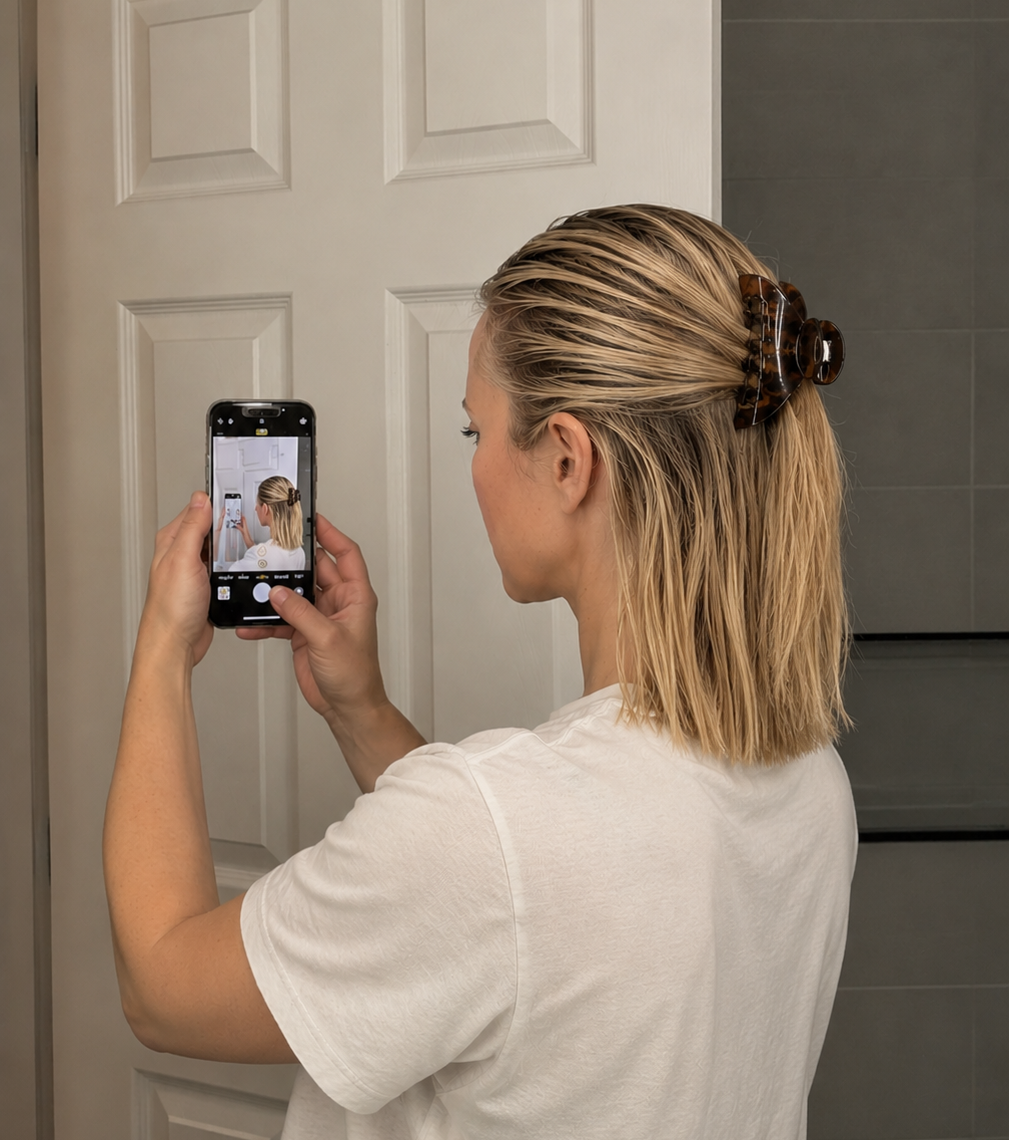
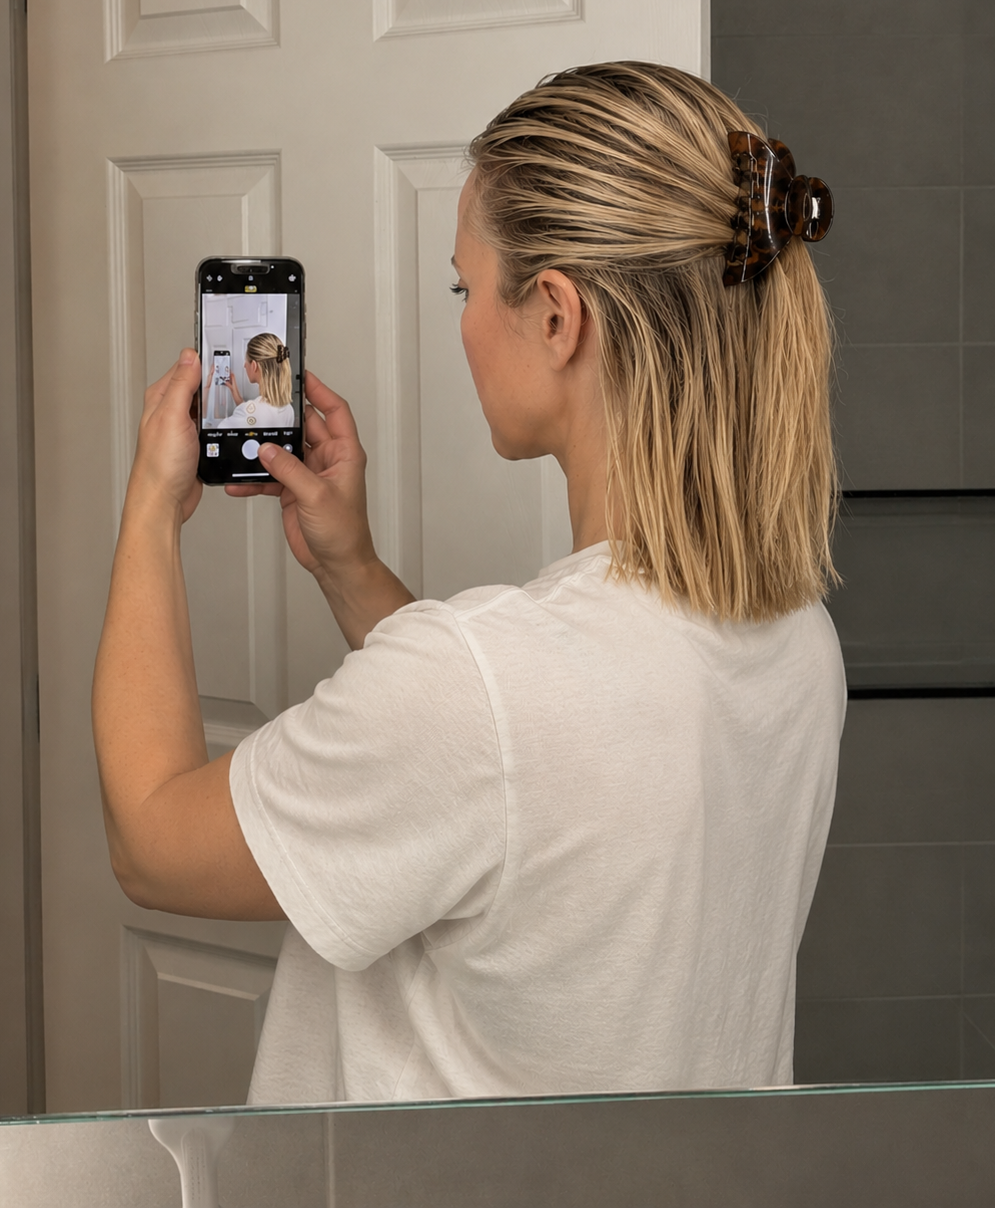
copy update

diff --git a/pages/best-hair-serums-postpartum-hair-loss.html b/pages/best-hair-serums-postpartum-hair-loss.html
@@ -77,7 +77,7 @@
       "name": "What ingredients should I double-check while breastfeeding?",
       "acceptedAnswer": {
         "@type": "Answer",
-        "text": "Medications like minoxidil, and some botanicals with limited breastfeeding research, such as ashwagandha and saw palmetto. When in doubt, bring the ingredient list to your doctor or lactation consultant."
+        "text": "Talk to your doctor before starting any of these, especially while pregnant or breastfeeding. Minoxidil is the one with a direct warning on the label."
       }
     },
     {
@@ -140,11 +140,13 @@ body{visibility:hidden;opacity:0;transition:opacity 0.3s ease;font-family:Georgi
 .chose-box li{margin-bottom:0.55rem;line-height:1.6;color:#222}
 
 .quick-look{margin:0 0 0.5rem;padding:0;list-style:none;counter-reset:look}
-.quick-look li{counter-increment:look;display:flex;gap:0.75rem;align-items:baseline;padding:0.7rem 0;border-bottom:1px solid #ece7e2;line-height:1.45}
+.quick-look li{counter-increment:look;display:flex;gap:0.75rem;align-items:center;padding:0.55rem 0;border-bottom:1px solid #ece7e2;line-height:1.35}
 .quick-look li:last-child{border-bottom:none}
 .quick-look li::before{content:counter(look);font-family:'Oswald',Buvera,sans-serif;font-weight:700;color:#c62828;min-width:1.1rem}
-.quick-look a{color:#111;font-weight:700;text-decoration:none}
+.quick-look a{display:flex;align-items:center;gap:0.75rem;flex:1;min-width:0;color:#111;font-weight:700;text-decoration:none}
+.quick-look a img{width:54px;height:54px;object-fit:contain;background:#fff;border:1px solid #ece7e2;flex:none}
 .quick-look a:hover{color:#aa1313}
+.quick-look a:hover img{border-color:#c62828}
 .quick-look .why{display:block;font-weight:400;color:#666;font-size:0.92rem;margin-top:0.1rem}
 
 .serum-card{border:1px solid #111;background:#fff;margin:2.25rem 0 0;scroll-margin-top:120px}
@@ -302,11 +304,12 @@ html.faq-moving{overflow-anchor:none}
       <p>At first, I thought it was normal. Everyone tells you postpartum hair loss happens, right? But then I started pulling actual clumps of hair out in the shower. Every time I brushed my hair, there was more.</p>
       <p>The worst part was my hairline. I had these little bald-looking patches around my temples, and my part was getting wider.</p>
       <p>I know it sounds dramatic, but I genuinely didn’t feel like myself anymore. I was already exhausted, barely sleeping, and trying to figure out how to be a mom. And now I didn’t even recognize myself in the mirror.</p>
-      <p>I started wearing my hair up constantly. I avoided pictures unless I was holding the baby in front of me.</p>
       <p>I tried switching shampoos, taking vitamins, and using different scalp oils. Nothing seemed to make a difference.</p>
-      <p class="pull"><strong>And because I was breastfeeding, every product I looked at came with the same question: <em>is this okay to use while I’m nursing?</em></strong></p>
+      <p>At some point I realized most of what I’d tried was working on the hair I already had, not on my scalp, where the new hair actually grows. So I started looking at scalp serums made for thinning and shedding.</p>
+      <p>That’s when I hit a wall.</p>
+      <p class="pull"><strong>Because I was breastfeeding, every serum I looked at came with the same question: <em>is this okay to use while I’m nursing?</em></strong></p>
       <p>That question is what this list is built around. Postpartum shedding has a name, <em>telogen effluvium</em>. During pregnancy, higher estrogen keeps more of your hair in the growth phase. After birth, those hormones drop fast, and a lot of that hair sheds at once, usually peaking around three to four months postpartum.</p>
-      <p>Most hair-loss reviews never get to the nursing question. I couldn’t skip it. I read the ingredient list of every serum here, checked what each brand actually says about breastfeeding, and talked to my doctor before I tried anything.</p>
+      <p>Most hair-loss reviews never get to the nursing question. I couldn’t skip it. I read the ingredient list of every serum here, checked what each brand actually says about breastfeeding, and brought my top pick to my doctor before I tried anything.</p>
       <p><strong>Here are the 6 serums I’d want a friend to know about if she’s going through what I went through, ranked.</strong></p>
 
       <div class="chose-box">
@@ -322,12 +325,12 @@ html.faq-moving{overflow-anchor:none}
 
       <h2 class="section-heading">Quick Look</h2>
       <ol class="quick-look">
-        <li><a href="#reyou">RE:YOU Dual-Path Hair Revival Serum<span class="why">Best Overall (Editor’s Pick)</span></a></li>
-        <li><a href="#vegamour">Vegamour GRO+ Advanced Hair Serum<span class="why">Best Plant-Based Pick</span></a></li>
-        <li><a href="#nutrafol">Nutrafol Hair Serum (Growth Activator)<span class="why">Best to Pair With a Postpartum Supplement</span></a></li>
-        <li><a href="#cecred">Cécred Restoring Hair &amp; Edge Drops<span class="why">Best for Edges &amp; Hairline</span></a></li>
-        <li><a href="#the-ordinary">The Ordinary Multi-Peptide Serum for Hair Density<span class="why">Budget Pick</span></a></li>
-        <li><a href="#rogaine">Women’s Rogaine 2% Minoxidil Topical Solution<span class="why">Best After You Wean</span></a></li>
+        <li><a href="#reyou"><img src="../assets/images/adv-glp-reyou-product.png" alt=""><span>RE:YOU Dual-Path Hair Revival Serum<span class="why">Best Overall (Editor’s Pick)</span></span></a></li>
+        <li><a href="#vegamour"><img src="../assets/images/vegamour-GRO-plus-advanced-serum.png" alt=""><span>Vegamour GRO+ Advanced Hair Serum<span class="why">Best Plant-Based Pick</span></span></a></li>
+        <li><a href="#nutrafol"><img src="../assets/images/nutrafol-hair-serum.png" alt=""><span>Nutrafol Hair Serum (Growth Activator)<span class="why">Best to Pair With a Postpartum Supplement</span></span></a></li>
+        <li><a href="#cecred"><img src="../assets/images/cecred-hair-serum.png" alt=""><span>Cécred Restoring Hair &amp; Edge Drops<span class="why">Best for Edges &amp; Hairline</span></span></a></li>
+        <li><a href="#the-ordinary"><img src="../assets/images/ordinary-hair-serum.png" alt=""><span>The Ordinary Multi-Peptide Serum for Hair Density<span class="why">Budget Pick</span></span></a></li>
+        <li><a href="#rogaine"><img src="../assets/images/rogaine-serum.png" alt=""><span>Women’s Rogaine 2% Minoxidil Topical Solution<span class="why">Best After You Wean</span></span></a></li>
       </ol>
 
       <article class="serum-card is-top" id="reyou">
@@ -378,20 +381,20 @@ html.faq-moving{overflow-anchor:none}
             <div class="pros-cons-bar cons">Cons</div>
             <ul>
               <li>Pricier than drugstore options</li>
-              <li>I couldn’t find postpartum-specific results published yet</li>
+              <li>Available online only</li>
             </ul>
           </div>
         </div>
       </article>
       <div class="bf-note">
           <h3>The Breastfeeding Question</h3>
-          <p>RE:YOU doesn’t use minoxidil or hormones, which was the first thing I checked. A dermatologist quoted on the brand’s site, Dr. Katie Beleznay, says it was “thoughtfully formulated with pregnancy and breastfeeding in mind.” The formula does include small amounts of saw palmetto and ashwagandha extracts, which don’t have much published breastfeeding data. Most guidance on those is about taking them as supplements, not applying a small amount to your scalp, but it’s worth showing the ingredient list to your doctor, especially if your baby is a newborn or was born early.</p>
+          <p>RE:YOU doesn’t use minoxidil or hormones, which was the first thing I checked. A dermatologist quoted on the brand’s site, Dr. Katie Beleznay, says it was “thoughtfully formulated with pregnancy and breastfeeding in mind.” RE:YOU was formulated without any ingredients known to be unsafe during pregnancy or breastfeeding. Before you start any product on this list, talk to your doctor.</p>
         </div>
         <div class="serum-copy">
           <p><strong>The short answer:</strong> This is the one I used, and the one I’d tell a friend to start with. By week 4 there was less hair in the shower. By month 2 I had baby hairs at my temples. By month 6 I had stopped hiding my hairline.</p>
           <h3>Why I chose it</h3>
           <p>After months of shampoos, vitamins, and scalp oils that didn’t do anything, I wanted something with real science behind it, and nothing I’d feel nervous about while breastfeeding.</p>
-          <p><a href="https://getreyou.com/products/dual-path-hair-revival-serum?path_source=best-hair-serums-postpartum-hair-loss" target="_blank" rel="sponsored noopener noreferrer"><strong>RE:YOU</strong></a> checked both boxes. It’s drug-free and hormone-free, so no minoxidil, the ingredient that comes with breastfeeding warnings on the box. And instead of only comparing their serum to a placebo, RE:YOU tested it head-to-head against minoxidil in a 190-participant randomized, double-blind study. According to the brand, women using RE:YOU saw about 18% more hair growth than the minoxidil group at 90 days.</p>
+          <p><a href="https://getreyou.com/products/dual-path-hair-revival-serum?path_source=best-hair-serums-postpartum-hair-loss" target="_blank" rel="sponsored noopener noreferrer"><strong>RE:YOU</strong></a> checked both boxes. It’s drug-free and hormone-free, so no minoxidil, the ingredient that comes with breastfeeding warnings on the box. And instead of only comparing their serum to a placebo, RE:YOU tested it head-to-head against minoxidil in a 190-participant randomized, double-blind study. According to the brand, women using RE:YOU saw 50% more hair growth than the minoxidil group at 90 days.</p>
           <p>I still brought it to my doctor before starting. After that conversation, I decided to give it a try.</p>
           <h3>My routine</h3>
           <p>I added it to my nighttime routine. It only took a minute, which was honestly perfect, because I barely had time for myself. A dropper on my scalp, a quick massage, and done.</p>
@@ -437,7 +440,7 @@ html.faq-moving{overflow-anchor:none}
           </ol>
           <h3>The honest part</h3>
           <p>Postpartum hair loss is common, and everyone’s recovery is different. Postpartum shedding often eases on its own over the first year, so I can’t tell you exactly how much of my regrowth was the serum and how much was time. Results vary. What I can tell you is that RE:YOU was part of the turnaround for me, and it’s the one I’d reach for again.</p>
-          <p>On ingredients: the formula has small amounts of saw palmetto and ashwagandha extracts. Most breastfeeding guidance on these is about oral supplements, not a little serum on your scalp, but do what I did and show the ingredient list to your doctor first, especially if your baby is a newborn or was born early.</p>
+          <p>Before using any of these products, talk to your doctor first. I did.</p>
           <div class="found-box">
             <p><strong>What I Found:</strong> For me, RE:YOU became one small part of taking care of myself again. And after spending so much time taking care of everyone else, that meant a lot. It’s drug-free, it was tested against minoxidil, and it comes with a 90-day money-back guarantee. If you’re where I was, this is the one I’d start with.</p>
           </div>
@@ -801,7 +804,7 @@ html.faq-moving{overflow-anchor:none}
         </details>
         <details>
           <summary>What ingredients should I double-check while breastfeeding?</summary>
-          <p>Medications like minoxidil, and some botanicals with limited breastfeeding research, such as ashwagandha and saw palmetto. When in doubt, bring the ingredient list to your doctor or lactation consultant.</p>
+          <p>Talk to your doctor before starting any of these, especially while pregnant or breastfeeding. Minoxidil is the one with a direct warning on the label.</p>
         </details>
         <details>
           <summary>How long until I see results from a hair serum?</summary>
